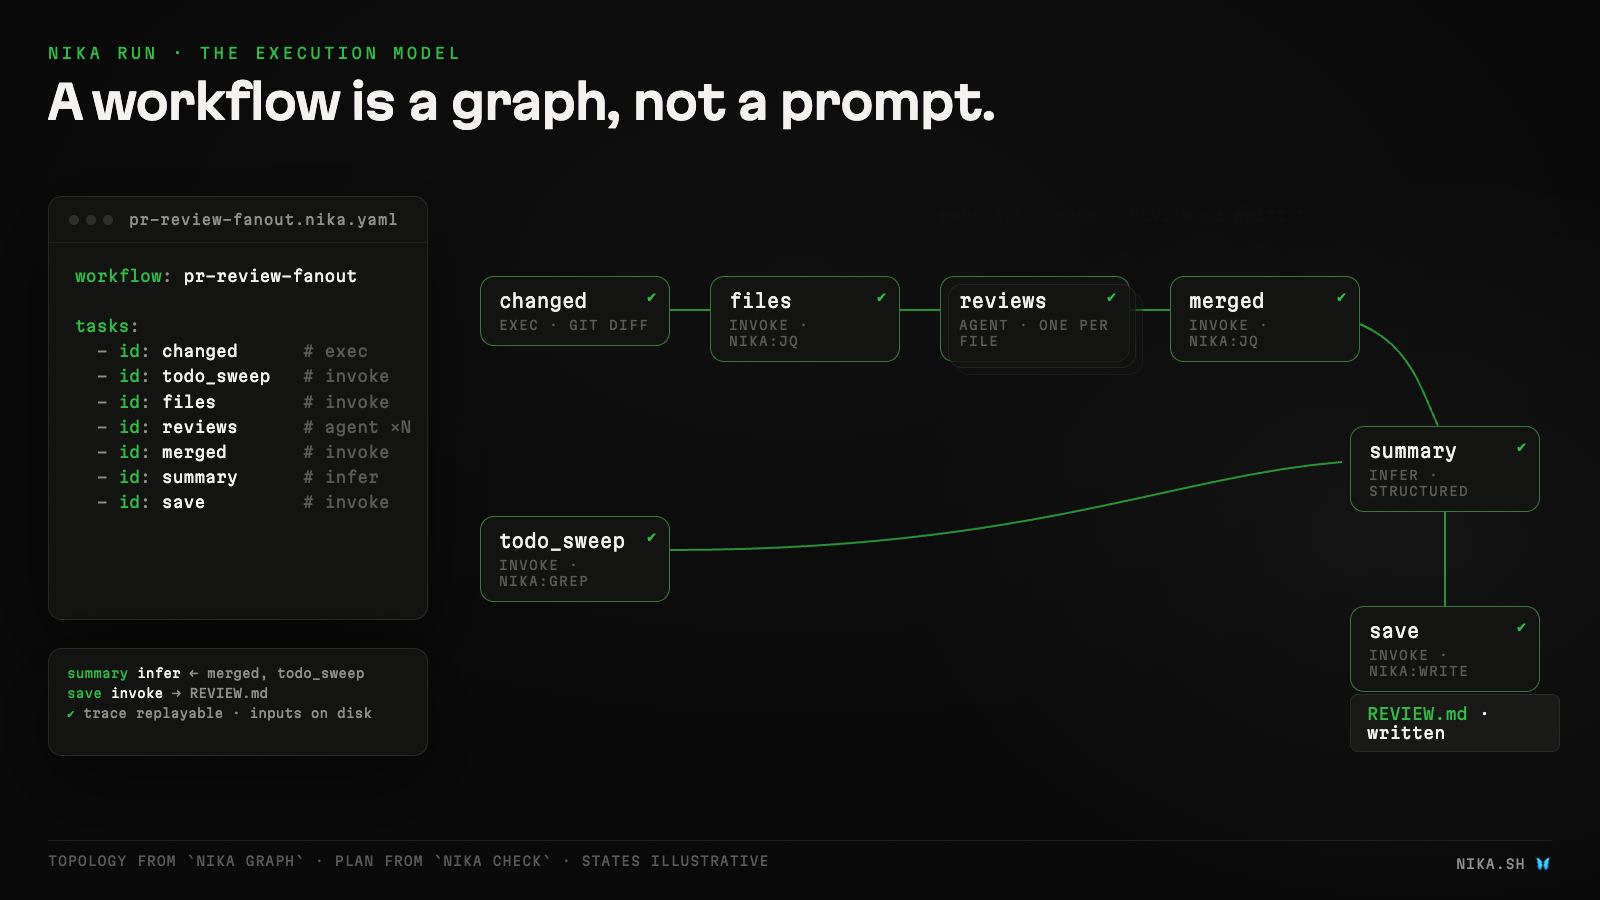
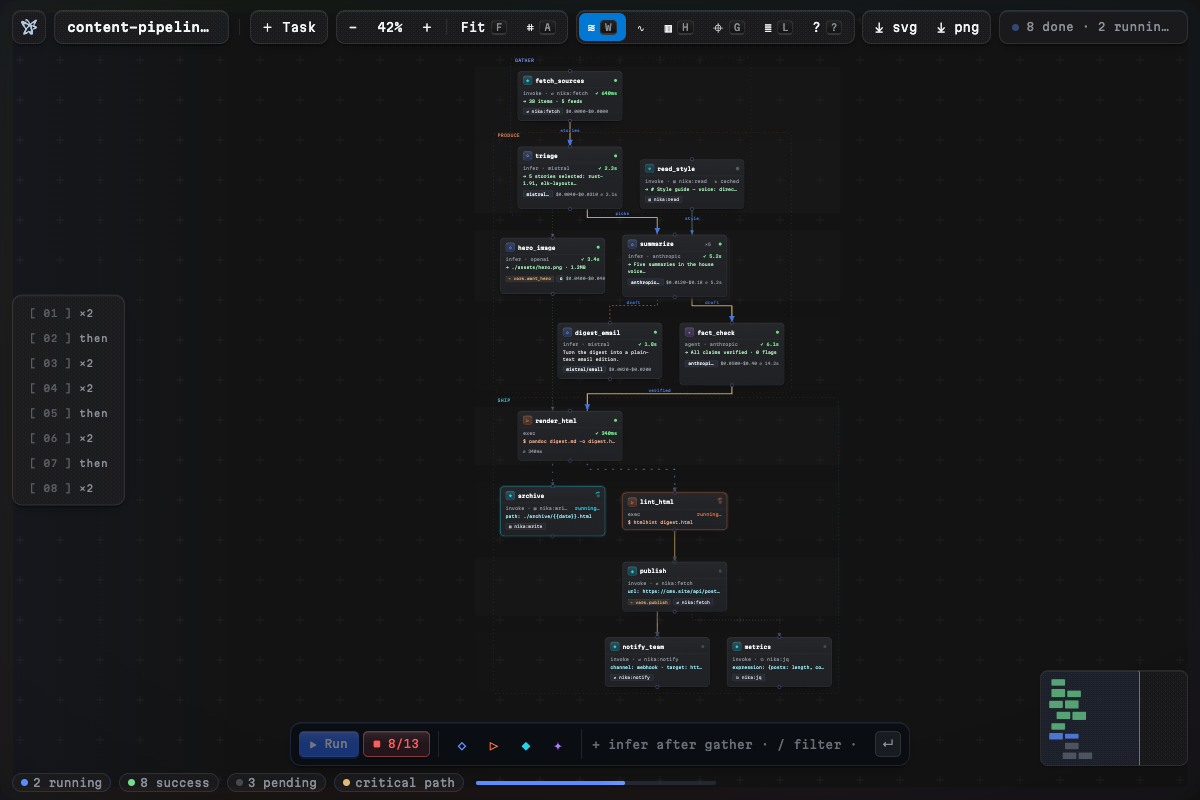
feat(canvas): round 15 — the system tells its own story again
The Socratic check after 14 rounds of features: does the in-canvas
explainer (?) still describe the canvas? It didn't — ⌘D, the
insert-on-edge +, run-from-here, alignment snapping and semantic zoom
were all shipped past it.

- Explainer synced: +3 rows (+ on a dashed wire · ⌘D duplicate ·
  zoom far out = the map read), hover row now names ▸ run from here
  and ⧉ dup, drag row names the alignment snapping (⌥ bypasses),
  keys row gains ⌘D. Three new CSS glyphs speak the same pictogram
  language (splice dot-on-wire · offset copy · two scaled tiles).

- README media honest again: dag-execution.gif re-captured on the
  CURRENT canvas (the July-2 capture predated the whole design
  system). New harness scene=live choreographs a full 13-task run
  (waves · cached hit · a retry · outputs landing on cards · progress
  heartbeat · the verdict banner) and record.mjs captures it at
  12fps → ffmpeg palette gif. 786KB vs 3.2MB before (−76%); poster
  refreshed from the mid-run frame. check-as-you-type.gif untouched
  (editor surface — still true).

- Perf audit (measured, no change needed): both bundles minified,
  webview 1.6MB dominated by elk.bundled (structural — the layout
  engine), d3 tree-shaken per-module, far-tier transitions inert
  outside crossings, edge-hit twins under the node layer.

408 vitest · parity ✓ · lint ✓ · explainer proof sota23.

diff --git a/src/webview/dag.css b/src/webview/dag.css
@@ -1371,6 +1371,28 @@ body.vscode-light .logo-dark { display: none; }
   background: color-mix(in srgb, var(--nk-ink) 8%, transparent);
   box-shadow: 3px 3px 0 color-mix(in srgb, var(--nk-accent) 35%, transparent);
 }
+/* The + riding a wire: a dashed run with the accent button at center. */
+.ex-glyph-splice {
+  background:
+    radial-gradient(circle at 50% 50%, var(--nk-accent) 0 3.5px, transparent 4px),
+    repeating-linear-gradient(90deg, var(--nk-ink-dim) 0 4px, transparent 4px 8px) 0 50% / 100% 2px no-repeat;
+  border: none;
+  height: 10px;
+}
+/* Duplicate: the original + its offset copy. */
+.ex-glyph-dup {
+  background:
+    linear-gradient(color-mix(in srgb, var(--nk-ink-dim) 55%, transparent), color-mix(in srgb, var(--nk-ink-dim) 55%, transparent)) 6px 0 / 14px 6px no-repeat,
+    linear-gradient(var(--nk-accent), var(--nk-accent)) 2px 4px / 14px 6px no-repeat;
+  border: none;
+}
+/* Semantic zoom: a big tile beside a small one — the same mark, scaled. */
+.ex-glyph-zoom {
+  background:
+    linear-gradient(var(--nk-accent), var(--nk-accent)) 1px 1px / 8px 8px no-repeat,
+    linear-gradient(color-mix(in srgb, var(--nk-accent) 45%, transparent), color-mix(in srgb, var(--nk-accent) 45%, transparent)) 14px 3px / 5px 5px no-repeat;
+  border: none;
+}
 
 .ex-keys {
   display: flex;

diff --git a/src/webview/dag.ts b/src/webview/dag.ts
@@ -3060,15 +3060,18 @@ function buildExplainer(): void {
     ['ex-glyph-critical', 'Critical path', 'the longest chain (real durations when known) — it alone decides the wall-clock'],
     ['ex-glyph-flow', 'Flowing edges', 'the source task finished — its output is travelling to the next ones'],
     ['ex-glyph-focus', 'Click a node', 'focus its lineage: what it needs upstream, what it unlocks downstream · Esc to clear'],
-    ['ex-glyph-hover', 'Hover a node', 'the full story — model · gates · fan-out · static cost · needs/unlocks (clickable)'],
+    ['ex-glyph-hover', 'Hover a node', 'the full story — model · gates · cost · needs/unlocks · \u25B8 run from here · \u29C9 duplicate'],
     ['ex-glyph-stack', 'Stacked card', 'a fan-out task (map ×N) — the deck IS the parallel copies; the badge counts them'],
     ['ex-glyph-gate', '⌁ gate chip', 'a when: condition — this task runs only if it holds (skipped is a decision, never a failure)'],
     ['ex-glyph-rail', 'The left rail', 'the plan itself — every wave, clickable; your viewport\'s wave stays lit'],
-    ['ex-glyph-drag', 'Drag a card', 'arrange the canvas your way — the wires follow, positions stick per workflow · A returns to the auto-layout'],
+    ['ex-glyph-drag', 'Drag a card', 'arrange the canvas your way — snaps align to other cards (\u2325 bypasses) · wires follow · A returns to the auto-layout'],
     ['ex-glyph-connect', '⌥ drag node → node', 'create a dependency — the YAML gets the depends_on (⌘Z undoes) · ⌥click an edge removes it'],
+    ['ex-glyph-splice', '+ on a dashed wire', 'insert a task INTO the edge — pick a verb, the wire reroutes through it (dependency wires only)'],
+    ['ex-glyph-dup', '\u2318D duplicate', 'copy the focused task under the original — fresh id, inbound wiring kept'],
     ['ex-glyph-add', '＋ Task · Delete · Enter', 'add a task after the focused one · Delete removes it (refused while referenced) · Enter opens its YAML'],
     ['ex-glyph-data', 'Blue labeled edges', 'data actually CROSSES here (the label is the binding alias) — gray dashed edges are ordering only'],
     ['ex-glyph-ghost', 'Red dashed edges', 'a task READS another without declaring depends_on (NIKA-DAG-003) — click the edge to declare it'],
+    ['ex-glyph-zoom', 'Zoom far out', 'the map read — cards become tiles, ids hold one readable size at any distance (semantic zoom)'],
   ];
   for (const [glyphClass, head, body] of rows) {
     const row = document.createElement('div');
@@ -3085,7 +3088,7 @@ function buildExplainer(): void {
 
   const keys = document.createElement('div');
   keys.className = 'ex-keys';
-  for (const [key, label] of [['Tab', 'next task'], ['↑↓', 'dep / dependent'], ['⏎', 'open YAML'], ['R', 'run'], ['M', 'mock run'], ['S', 'stop'], ['F', 'fit'], ['A', 'auto-layout'], ['W', 'waves'], ['H', 'heatmap'], ['G', 'follow run'], ['K', 'command'], ['/', 'filter'], ['Esc', 'clear'], ['?', 'this card']]) {
+  for (const [key, label] of [['Tab', 'next task'], ['↑↓', 'dep / dependent'], ['⏎', 'open YAML'], ['R', 'run'], ['M', 'mock run'], ['S', 'stop'], ['F', 'fit'], ['A', 'auto-layout'], ['W', 'waves'], ['H', 'heatmap'], ['G', 'follow run'], ['K', 'command'], ['/', 'filter'], ['\u2318D', 'duplicate'], ['Esc', 'clear'], ['?', 'this card']]) {
     const kbd = document.createElement('kbd');
     kbd.textContent = key;
     const span = document.createElement('span');